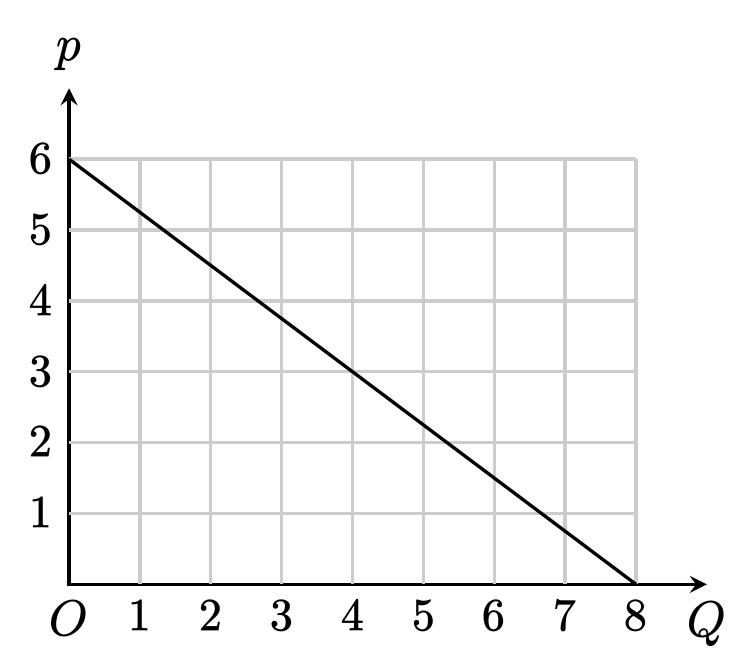
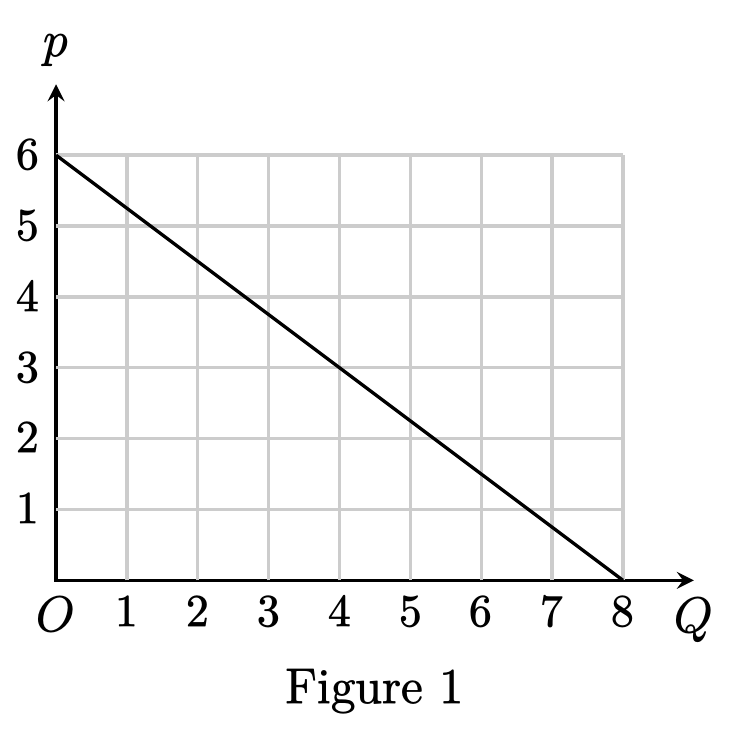
Crop problem set 13 figures with their captions
Captions now live in the images, so the duplicate caption lines are
removed from the Markdown.

Changed region(s): [[0.0, 0.0304, 0.9945, 1.0]]

diff --git a/ECON315/problem_sets/md/ps_13_micro2_monopoly_part.md b/ECON315/problem_sets/md/ps_13_micro2_monopoly_part.md
@@ -12,8 +12,6 @@ The demand curve of a good is the downward sloping segment shown in Figure 1.
 
 ![Figure 1: demand segment from (Q, p) = (0, 6) to (8, 0) on a unit grid, Q from 0 to 8, p from 0 to 6](assets/ps_13_micro2_monopoly_part/figure-1.png)
 
-Figure 1
-
 - (a) When is the demand elastic/inelastic/unit-elastic?
 - (b) Draw in the figure the demand curve faced by a competitive firm on the market, provided that the competitive equilibrium price on the market is $p^c = 3$. How many units of the good will be transacted in the competitive equilibrium?
 - (c) Draw the marginal revenue curve for a monopolist on this market which adopts a linear pricing strategy.
@@ -57,8 +55,6 @@ $$
 where $(Q_i, P_i)$ is the plan designed for consumer $i$, $Q_i$ being the quantity sold to the consumer and $P_i$ being the total price the consumer will be charged, $i \in \{A, B\}$.
 
 ![Figure 2: two demand segments on a unit grid, D_A from (Q, p) = (0, 6) to (8, 0) and D_B from (0, 4) to (4, 0)](assets/ps_13_micro2_monopoly_part/figure-2.png)
-
-Figure 2
 
 - (a) Table 1 specifies two menus of plans. For each of them, determine whether it is individually rational (i.e., for each consumer, choosing the plan designed for him is no worse than not choosing any of the plans).
 - (b) For each of the two menus as specifed in Table 1, determine whether it is incentive compatible (i.e., for each consumer, whether it is better to choose the plan designed for him rather than the other one).
